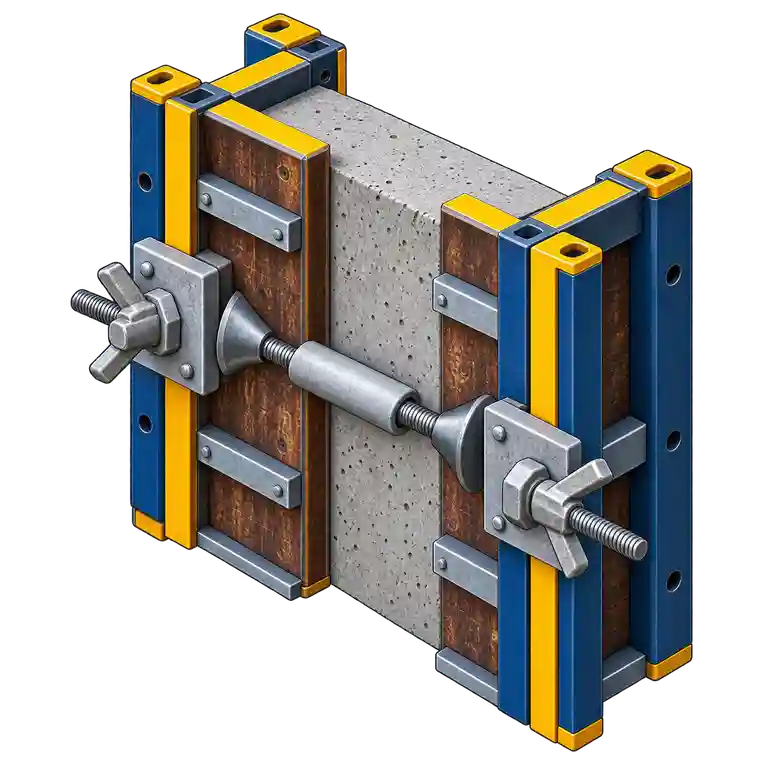
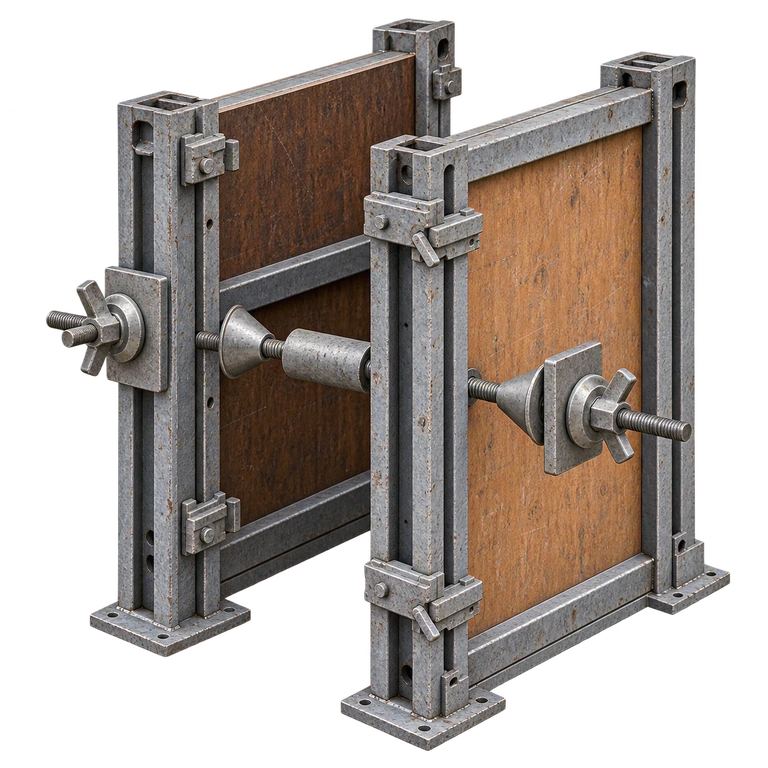
feat(field-guide): lock FG024-FG027 realistic v2 art

diff --git a/tests/field-guide-s2a-production.test.ts b/tests/field-guide-s2a-production.test.ts
@@ -1,0 +1,45 @@
+import { describe, expect, it } from 'vitest';
+import assets from '../content/episode01/assets.json';
+import catalog from '../content/episode01/scene-element-catalog.json';
+import section2 from '../content/episode01/field-guide-section2-production.json';
+
+const expected = {
[4 lines of base64/hex data omitted]
+} as const;
+
+describe('Field Guide S2-A realistic-v2 production lock', () => {
+  it('locks FG024-FG027 to final realistic-v2 assets', () => {
+    for (const [key, [hash, bytes]] of Object.entries(expected)) {
+      const entry = catalog.elements[key as keyof typeof catalog.elements];
+      expect(entry.production_status).toBe('final');
+      expect(entry.art.style_profile).toBe('field-guide-production-realistic-v2');
+      expect(entry.art.render_intent).toBe('realistic_isometric_construction_asset');
+      expect(entry.production?.width).toBe(768);
+      expect(entry.production?.height).toBe(768);
+      expect(entry.production?.sha256).toBe(hash);
+      expect(entry.production?.bytes).toBe(bytes);
+    }
+  });
+
+  it('keeps manifest hashes synchronized with the catalog', () => {
+    for (const [key, [hash, bytes]] of Object.entries(expected)) {
+      const entry = catalog.elements[key as keyof typeof catalog.elements];
+      const asset = assets.assets.find(candidate => candidate.asset_id === entry.planned_asset_id);
+      expect(asset).toBeDefined();
+      expect(asset?.version).toBe('2');
+      expect(asset?.variants[0]?.hash).toBe(hash);
+      expect(asset?.variants[0]?.bytes).toBe(bytes);
+      expect(asset?.variants[0]?.uri).toBe(entry.art.path);
+    }
+  });
+
+  it('advances Section 2 production to S2-B only after S2-A is final', () => {
+    const batch = section2.batches.find(candidate => candidate.batch_id === 'S2-A');
+    expect(batch?.status).toBe('final');
+    expect(batch?.items.every(item => item.status === 'final' && item.visual_acceptance === 'approved_realistic_v2')).toBe(true);
+    expect(section2.current_batch).toBe('S2-B');
+  });
+});
